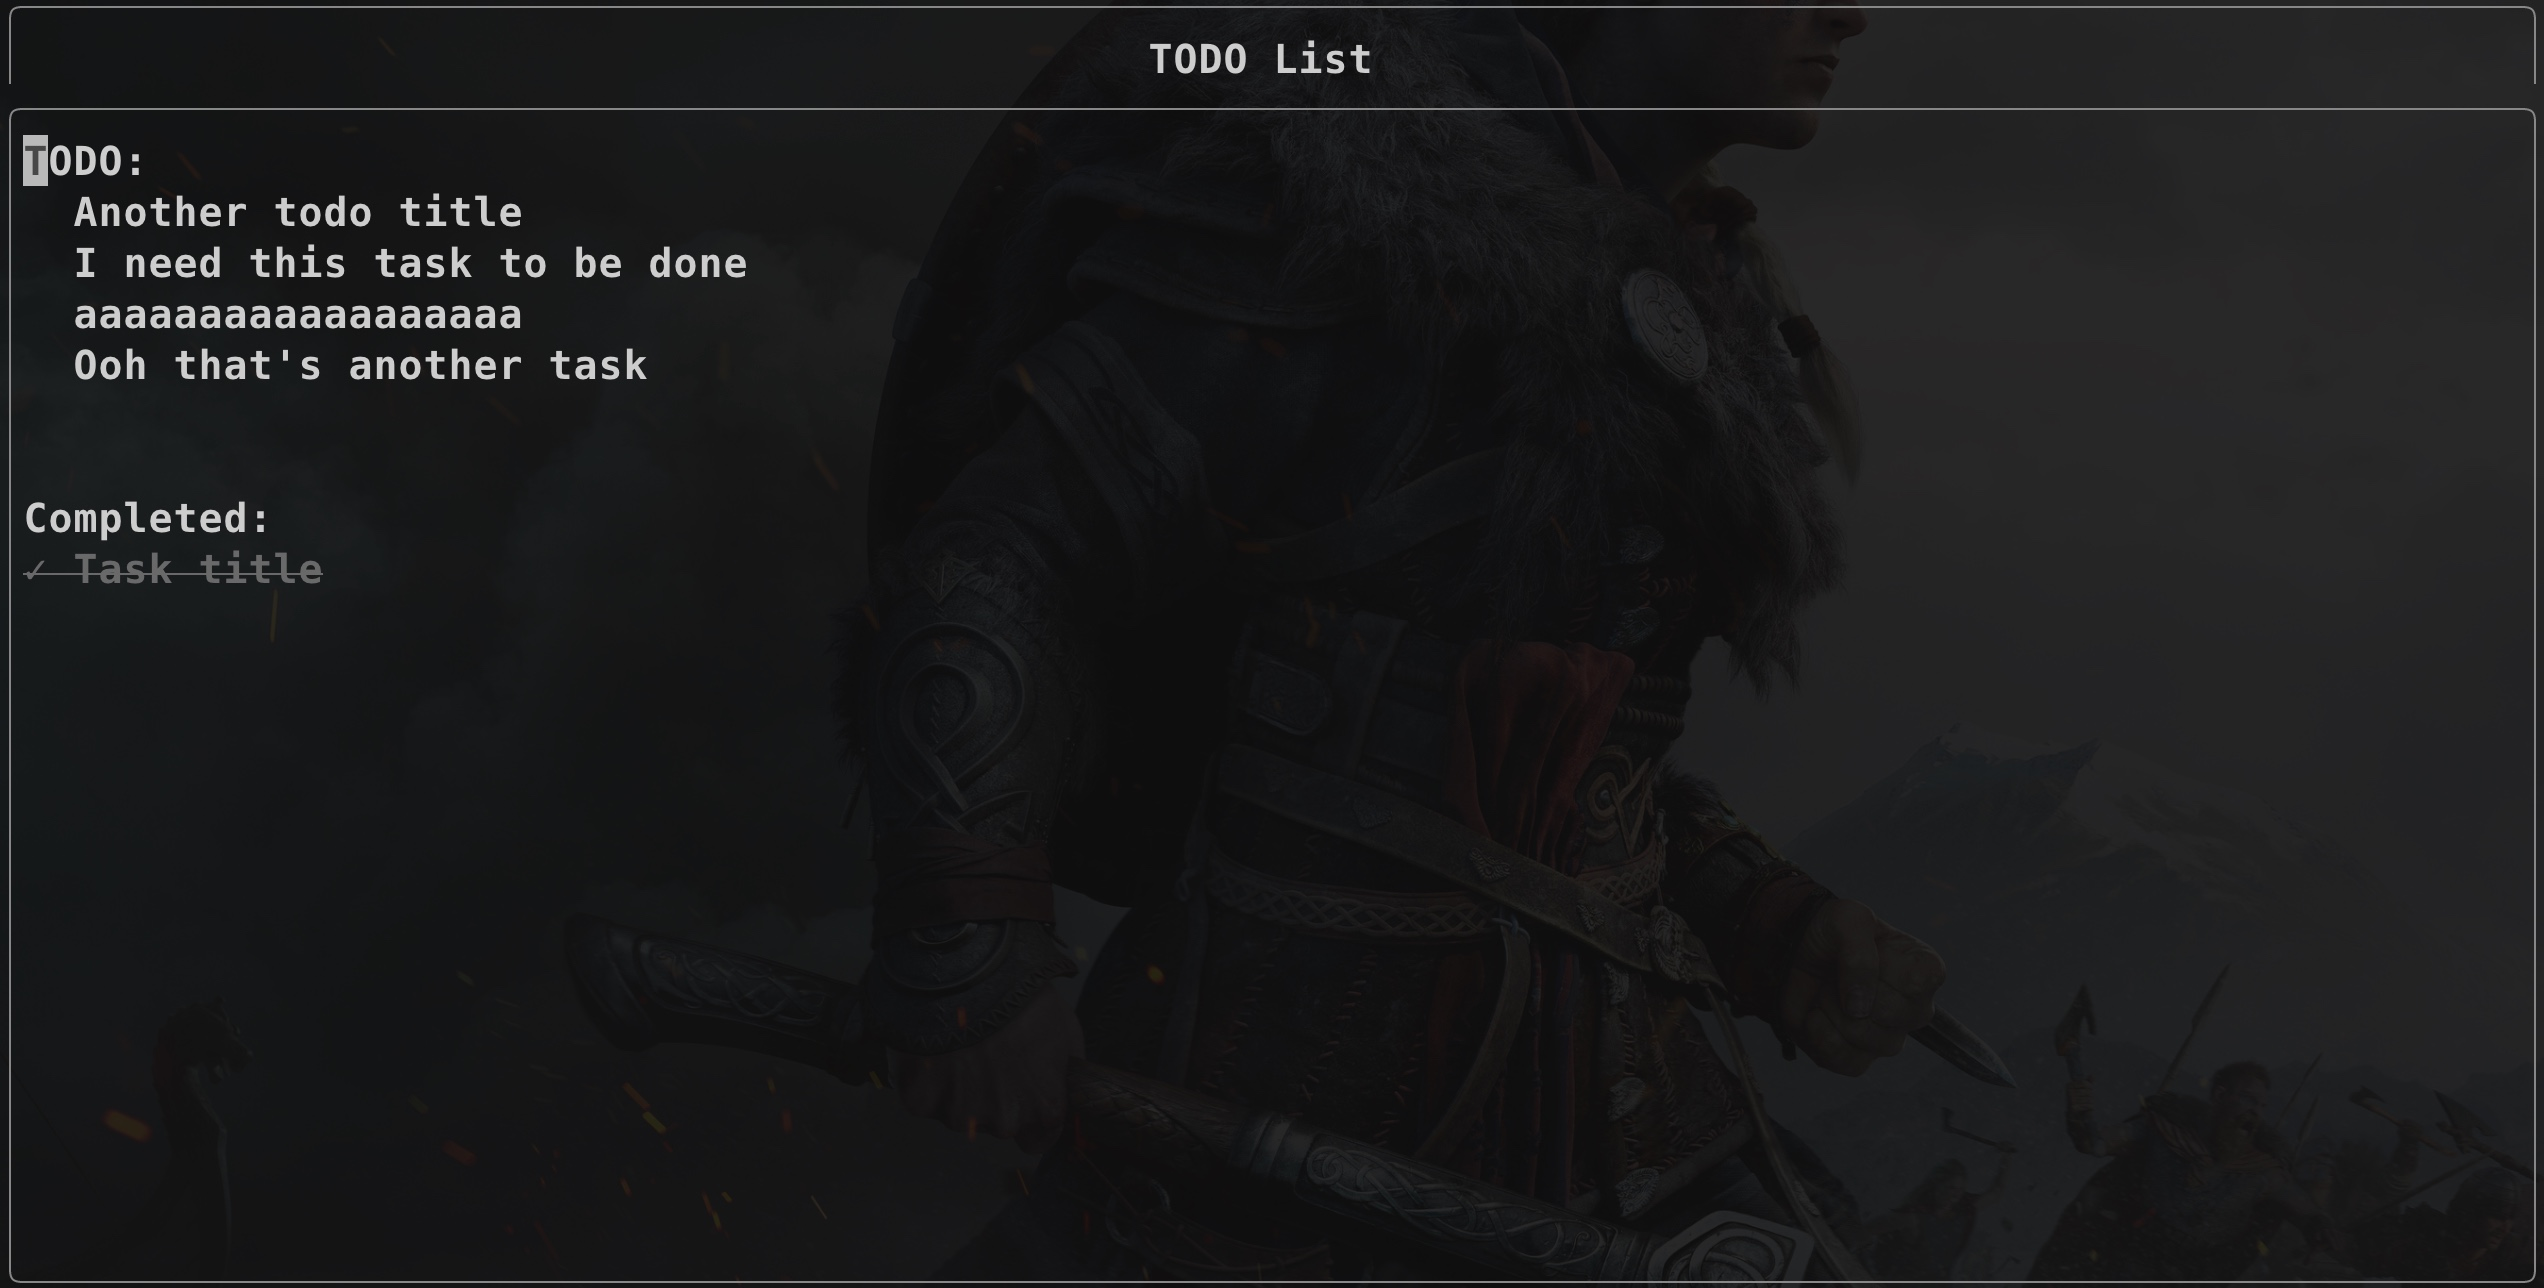
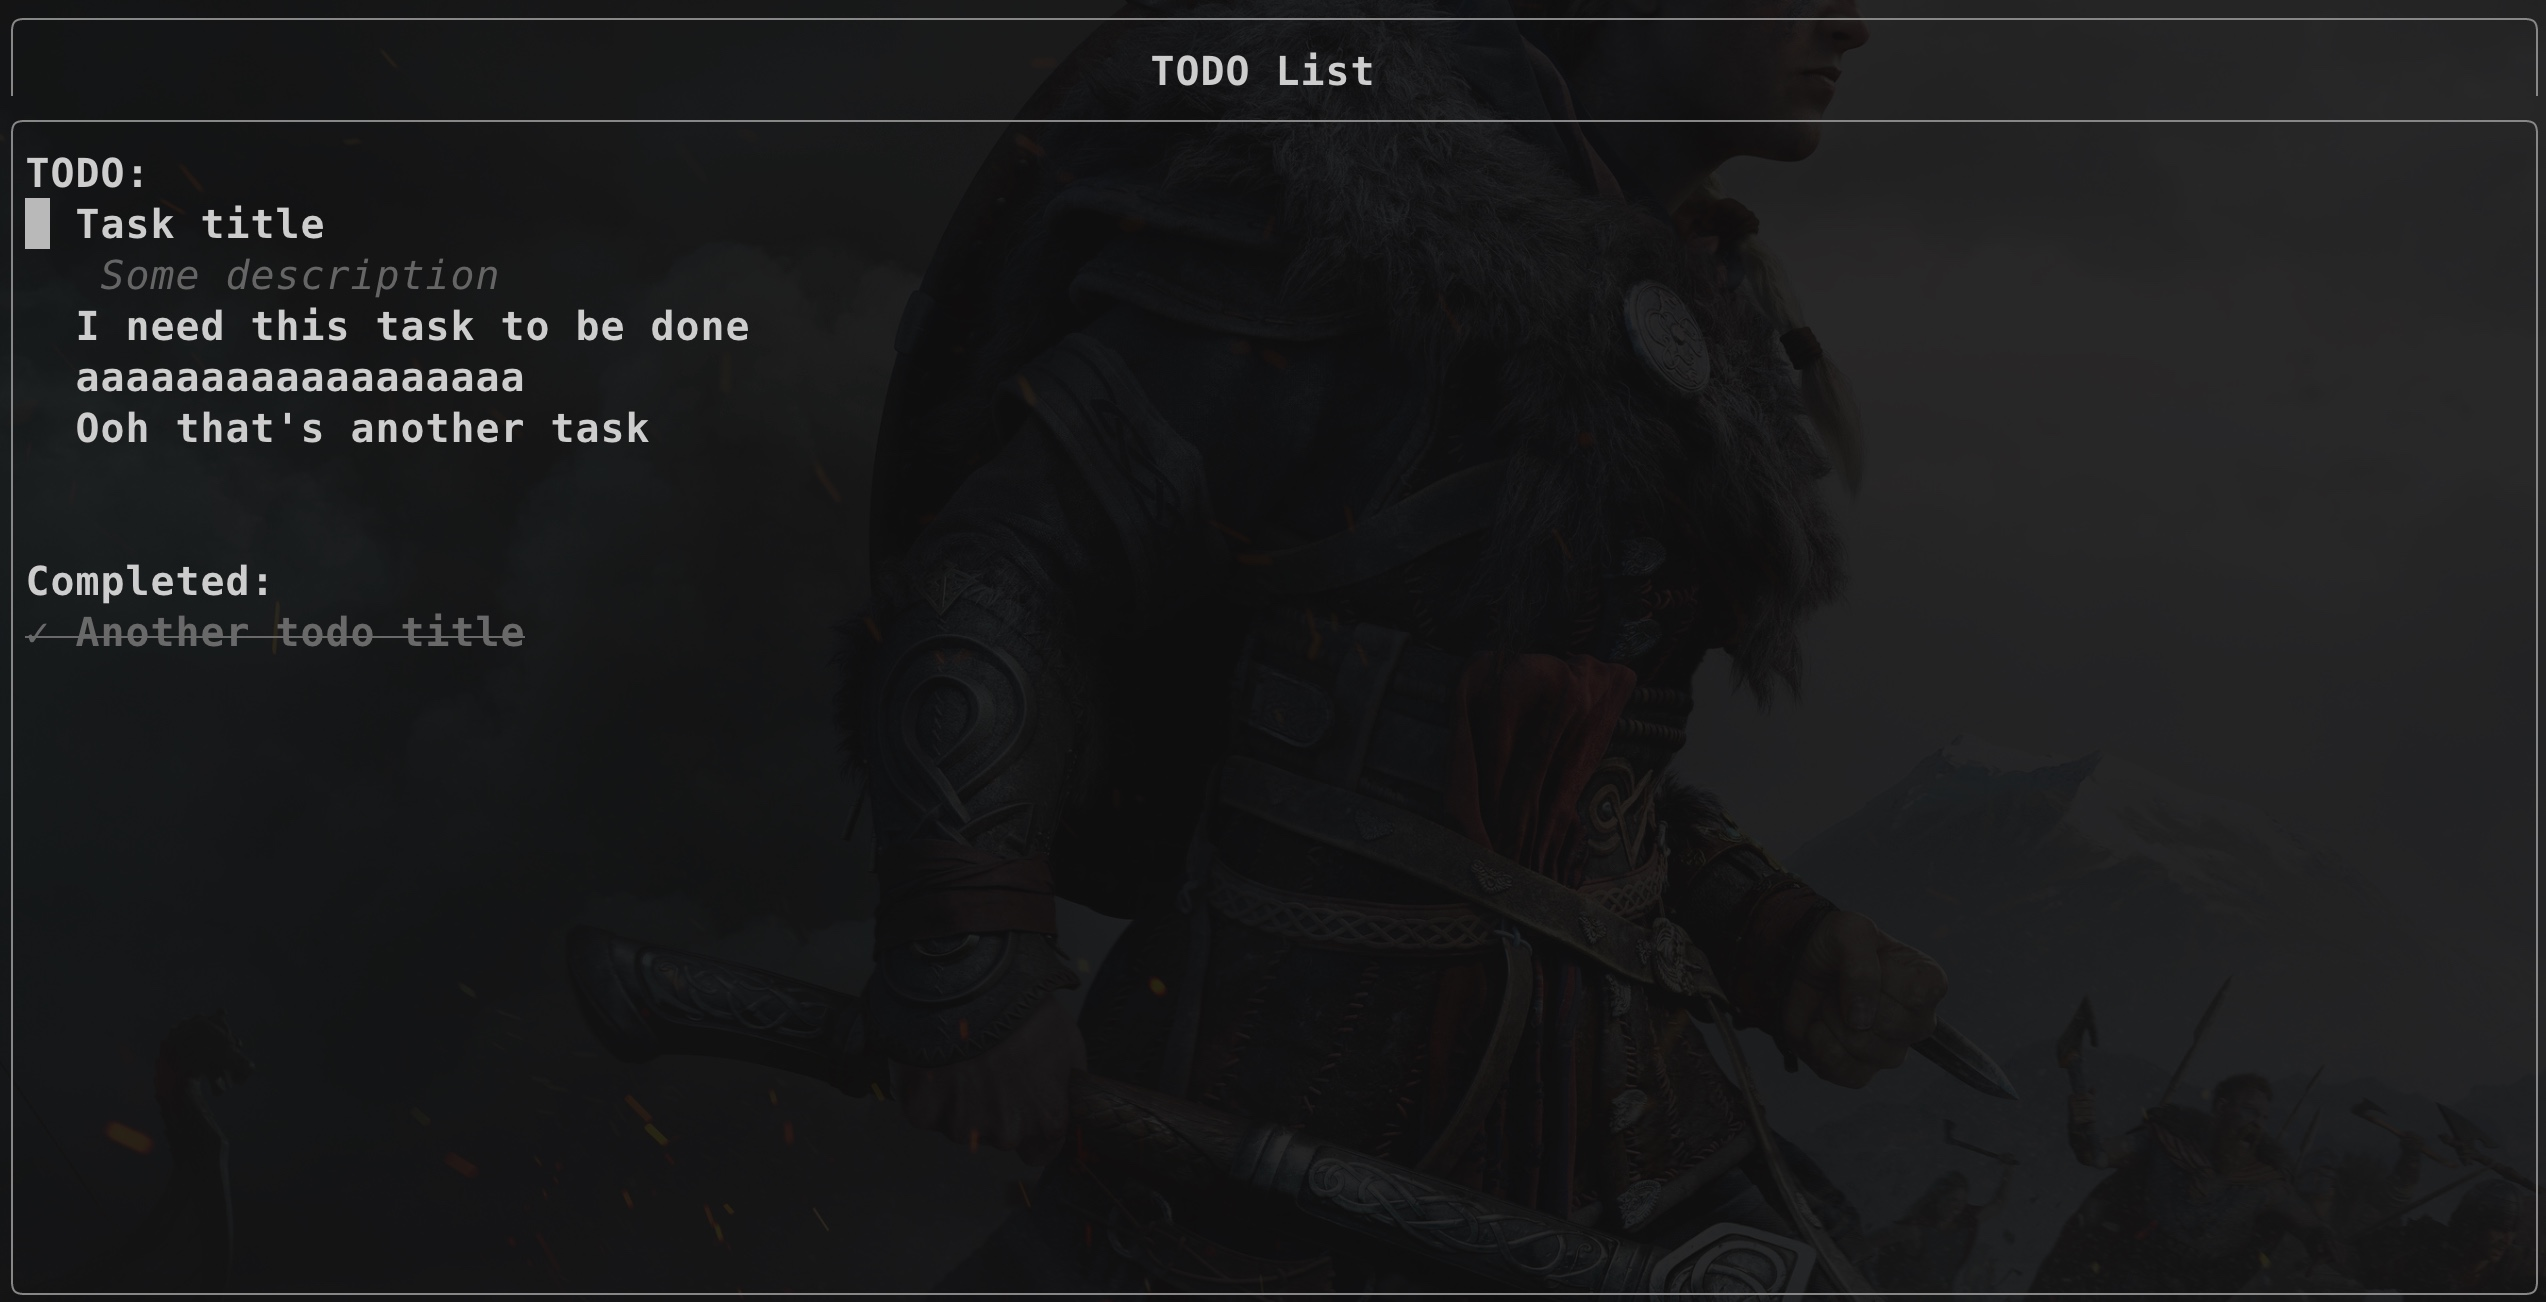
docs: update readme; update image

diff --git a/README.md b/README.md
@@ -24,7 +24,8 @@ return { "ochcaroline/needdis.nvim" }
 
 ### TODO window keymaps
 | Keymap       	| Action                 	|
-|--------------	|------------------------	|
+|---------------|------------------------	|
+| `<CR>`    	| Toggle task details       |
 | `<leader>ta` 	| Add task               	|
 | `<leader>td` 	| Delete task            	|
 | `<leader>tv` 	| Toggle task completion 	|
